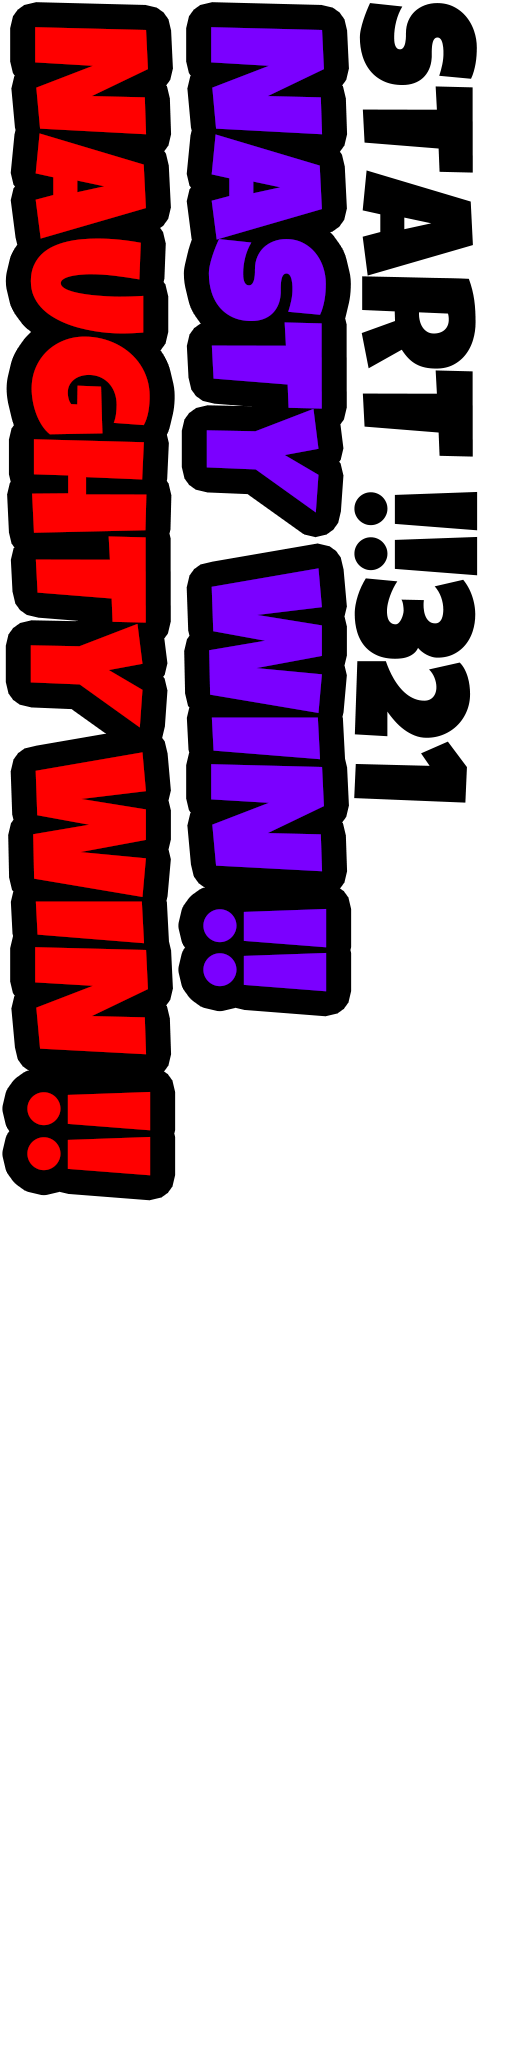
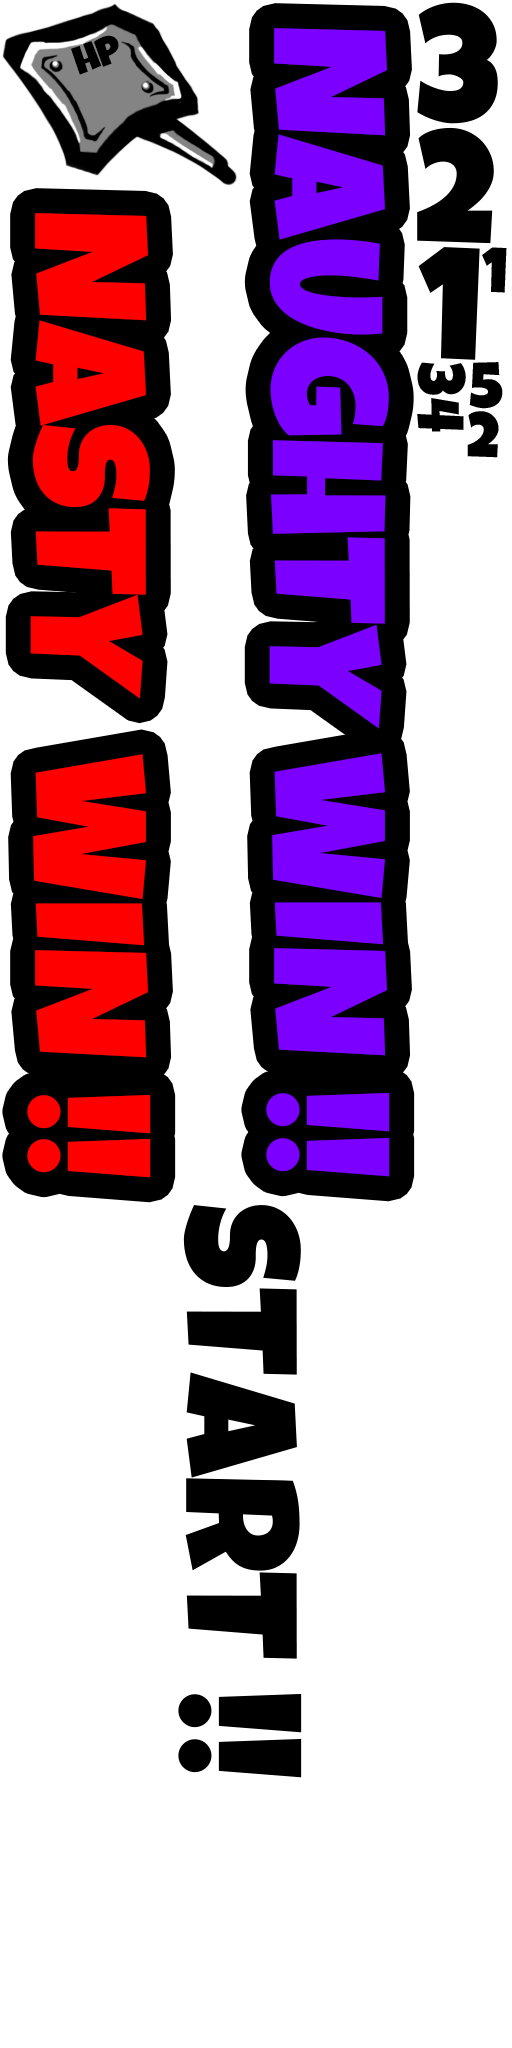
over_layer

diff --git a/Magnetic/src/ScoreController.js b/Magnetic/src/ScoreController.js
@@ -4,49 +4,49 @@
 
 var ScoreController = {
 
-    fp_score : 0,
-    sp_score : 0,
-    fp_score_label : null,
-    sp_score_label : null,
+    fp_hp : GAME_INIT_HP,
+    sp_hp : GAME_INIT_HP,
+    fp_hp_label : null,
+    sp_hp_label : null,
     game_layer : null,
-    gameOver_score : GAME_OVER_SCORE,
 
     isGameOver : false,
 
     init : function(game_layer){
-        this.fp_score = 0;
-        this.sp_score = 0;
+        this.fp_hp = GAME_INIT_HP;
+        this.sp_hp = GAME_INIT_HP;
 
-        this.fp_score_label = cc.LabelTTF.create("0");
-        this.sp_score_label = cc.LabelTTF.create("0");
-        this.fp_score_label.setPosition(winSize.width/10, winSize.height * 2/3);
-        this.sp_score_label.setPosition(winSize.width * 9/10, winSize.height * 2/3);
-        this.fp_score_label.setFontSize(50);
-        this.sp_score_label.setFontSize(50);
-        game_layer.addChild(this.fp_score_label);
-        game_layer.addChild(this.sp_score_label);
+        this.fp_hp_label = cc.LabelTTF.create("3");
+        this.sp_hp_label = cc.LabelTTF.create("3");
+        this.fp_hp_label.setPosition(winSize.width/10, winSize.height * 2/3);
+        this.sp_hp_label.setPosition(winSize.width * 9/10, winSize.height * 2/3);
+        this.fp_hp_label.setFontSize(50);
+        this.sp_hp_label.setFontSize(50);
+        game_layer.addChild(this.fp_hp_label);
+        game_layer.addChild(this.sp_hp_label);
 
         this.game_layer = game_layer;
 
         this.isGameOver = false;
     },
 
-    addFpScore : function(){
-        this.fp_score ++;
+    hitSpHouse : function(){
+        this.sp_hp --;
+        console.log(this.sp_hp);
 
-        if (this.fp_score && this.fp_score <= this.gameOver_score) {
-            this.fp_score_label.setString(this.fp_score);
+        if ( this.sp_hp >= 0) {
+            this.sp_hp_label.setString(this.sp_hp);
             var rightGate = this.game_layer.getChildByTag(RIGHT_GATE_TAG);
             var spriteFrameCache = cc.spriteFrameCache;
             var rightSpriteFrame = null;
-            switch (this.fp_score) {
-                case 1:
+            switch (this.sp_hp) {
+                case 2:
                     rightSpriteFrame = spriteFrameCache.getSpriteFrame("redB.png");
                     break;
-                case 2:
+                case 1:
                     rightSpriteFrame = spriteFrameCache.getSpriteFrame("redC.png");
                     break;
-                case 3:
+                case 0:
                     rightSpriteFrame = spriteFrameCache.getSpriteFrame("redD.png");
                     break;
             }
@@ -63,26 +63,27 @@ var ScoreController = {
 
         }
 
-        if (this.fp_score && this.fp_score === this.gameOver_score && !this.isGameOver){
+        if (this.sp_hp === 0 && !this.isGameOver){
             this.gameOver();
         }
     },
 
-    addSpScore : function(){
-        this.sp_score ++;
-        if (this.sp_score && this.sp_score <= this.gameOver_score) {
-            this.sp_score_label.setString(this.sp_score);
+    hitFpHouse : function(){
+        this.fp_hp --;
+
+        if ( this.fp_hp >= 0) {
+            this.fp_hp_label.setString(this.fp_hp);
             var leftGate = this.game_layer.getChildByTag(LEFT_GATE_TAG);
             var spriteFrameCache = cc.spriteFrameCache;
             var leftSpriteFrame = null;
-            switch (this.sp_score) {
-                case 1:
-                    leftSpriteFrame = spriteFrameCache.getSpriteFrame("purpleB.png");;
-                    break;
+            switch (this.fp_hp) {
                 case 2:
+                    leftSpriteFrame = spriteFrameCache.getSpriteFrame("purpleB.png");
+                    break;
+                case 1:
                     leftSpriteFrame = spriteFrameCache.getSpriteFrame("purpleC.png");
                     break;
-                case 3:
+                case 0:
                     leftSpriteFrame = spriteFrameCache.getSpriteFrame("purpleD.png");
                     break;
             }
@@ -98,7 +99,7 @@ var ScoreController = {
             }
         }
 
-        if ( this.sp_score && this.sp_score === this.gameOver_score && !this.isGameOver){
+        if (  this.fp_hp === 0 && !this.isGameOver){
             this.gameOver();
         }
 
@@ -108,7 +109,7 @@ var ScoreController = {
 
         this.isGameOver = true;
 
-        var isNaughtyWin = this.fp_score === this.gameOver_score;
+        var isNaughtyWin = this.sp_hp === 0;
 
         var over_layer = OverLayer.create(isNaughtyWin);
 

diff --git a/Magnetic/src/OverLayer.js b/Magnetic/src/OverLayer.js
@@ -18,17 +18,44 @@ var OverLayer = cc.Layer.extend({
 
         this._super();
 
-        var win_logo = null;
 
         if ( this.isNaughtyWin ){
-            win_logo = new cc.Sprite("prupleWinUI.png");
+            this.win_logo = new cc.Sprite("#prupleWinUI.png");
         }else{
-            win_logo = new cc.Sprite("redWinUI.png");
+            this.win_logo = new cc.Sprite("#redWinUI.png");
         }
 
-        win_logo.setPosition(winSize.width/2, winSize.height/2);
-        this.addChild(win_logo);
+        this.win_logo.setPosition(winSize.width/2, winSize.height/2);
+        this.win_logo.setScale(0, 0);
+        this.addChild(this.win_logo);
 
+        this.win_logo.runAction(
+            new cc.Sequence(
+                new cc.EaseBackOut(new cc.ScaleTo(0.8, 1.0, 1.0)),
+                new cc.DelayTime(2),
+                new cc.EaseBackIn(new cc.ScaleTo(0.5, 0.0, 0.0)),
+                new cc.CallFunc(this.showOverMenu, this),
+                null
+            )
+        );
+
+
+    },
+
+    showOverMenu : function (){
+
+        var game_over_logo = new cc.Sprite("#gameOverUI.png");
+
+        var play_again_btn = new cc.MenuItemSprite();
+
+
+    },
+
+    playAgain : function(){
+
+    },
+
+    backToMainMenu : function (){
 
     }
 

diff --git a/Magnetic/src/ItemsController.js b/Magnetic/src/ItemsController.js
@@ -70,14 +70,13 @@ var ItemsLayer = cc.Layer.extend({
             if (cc.rectContainsPoint(Level.fp_gate_info, i_pos)){
                 //sp get goal.
 //                item.time = -1;
-                ScoreController.addSpScore();
-
+                ScoreController.hitFpHouse();
                 delete_items.push(item);
             }
 
             else if (cc.rectContainsPoint(Level.sp_gate_info, i_pos)){
                 //fp get goal
-                ScoreController.addFpScore();
+                ScoreController.hitSpHouse();
                 delete_items.push(item);
             }
         }

diff --git a/Magnetic/src/GameLayer.js b/Magnetic/src/GameLayer.js
@@ -315,6 +315,8 @@ var GameLayer = cc.Layer.extend({
         var spriteFrameCache = cc.spriteFrameCache;
         spriteFrameCache.addSpriteFrames(res.Bomb_plist);
         spriteFrameCache.addSpriteFrames(res.House_plist);
+        spriteFrameCache.addSpriteFrames(res.game_ui_plist);
+        spriteFrameCache.addSpriteFrames(res.over_ui_plist);
 
     }
 });

diff --git a/Magnetic/src/resource.js b/Magnetic/src/resource.js
@@ -26,7 +26,10 @@ var res = {
     Ground: "res/ground.png",
 
     game_ui_plist : "res/gameUI.plist",
-    game_ui_png : "res/gameUI.png"
+    game_ui_png : "res/gameUI.png",
+
+    over_ui_plist : "res/overUI.plist",
+    over_ui_png : "res/overUI.png"
 };
 
 var g_resources = [];

diff --git a/Magnetic/src/GlobalValue.js b/Magnetic/src/GlobalValue.js
@@ -57,4 +57,4 @@ var BOMB_JUMP_ADD_SPEED = 200;
 
 var GLOBAL_COL_TYPE = 0;
 
-var GAME_OVER_SCORE = 3;
+var GAME_INIT_HP = 1;
